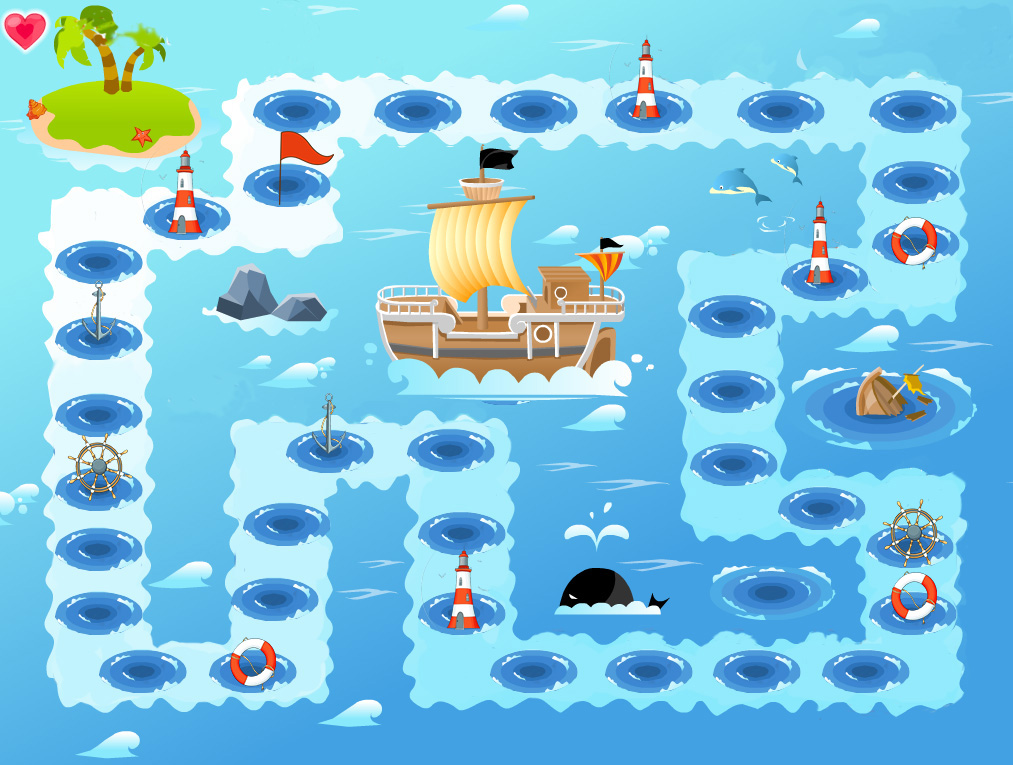
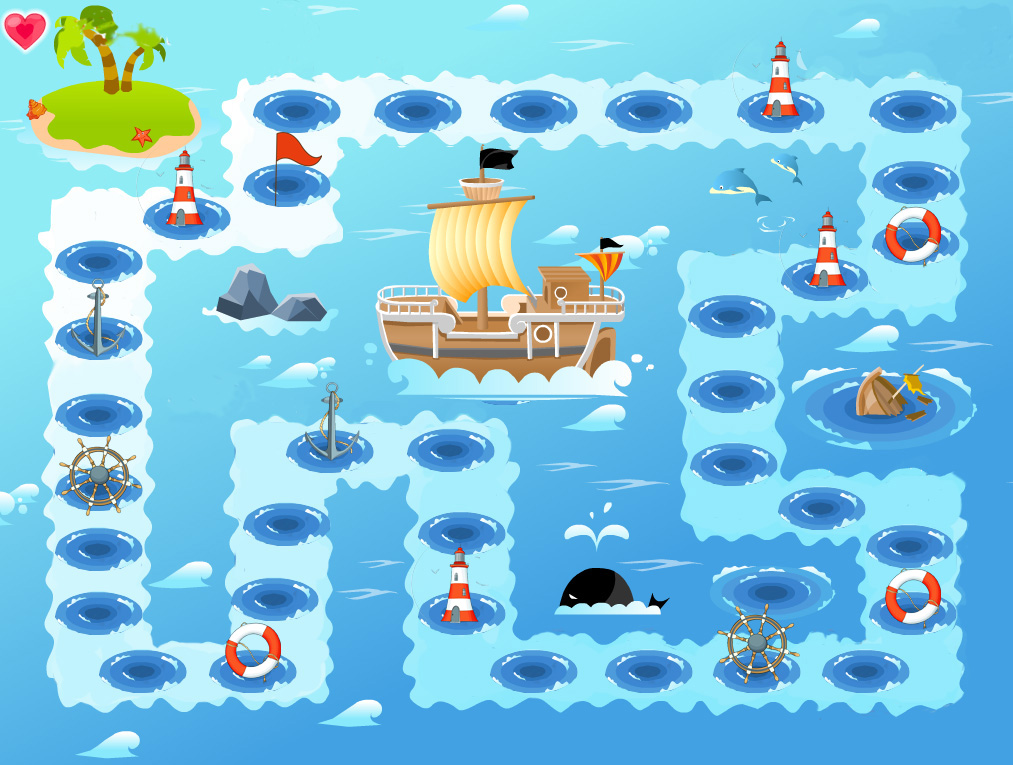
1

diff --git a/src/FlightChess/Model/Game.java b/src/FlightChess/Model/Game.java
@@ -25,13 +25,13 @@ public class Game {
 	/** Terminal coordinates */
 	public static final int FINAL_GRID = 34; 
 	/** The coordinates of the props moving forward */
-	public static final int[] PROP1_GRID = {3,8,19,33};
+	public static final int[] PROP1_GRID = {4,8,19,33};
 	/** The coordinates of the props moving back */
 	public static final int[] PROP2_GRID = {7,14,25};
 	/** The coordinates of the props a round of prohibition */
 	public static final int[] PROP3_GRID = {22,31};
 	/** The coordinates of the props taking one more round */
-	public static final int[] PROP4_GRID = {13,29};
+	public static final int[] PROP4_GRID = {16,29};
 	/** The forward step of prop1 */
 	public static final int FOWARD_STEP = 5;
 	/** The back step of prop2 */
